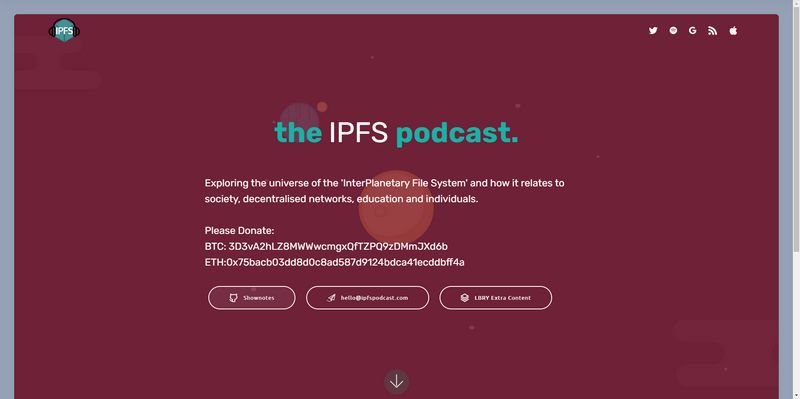
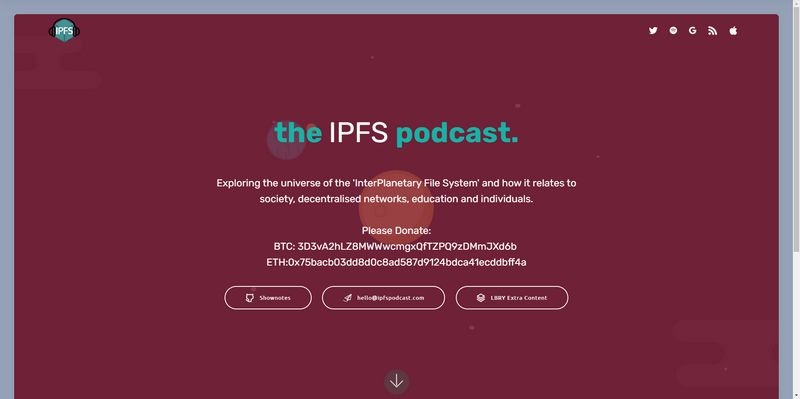
email update
email update

diff --git a/index.html b/index.html
@@ -74,7 +74,7 @@
             <div class="mbr-white col-md-10">
                 <h1 class="mbr-section-title align-center mbr-bold pb-3 mbr-fonts-style display-1">the <a href="http://ipfs.io" target="_blank">IPFS&nbsp;</a>podcast.</h1>
                 <p class="mbr-text align-center pb-3 mbr-fonts-style display-5"><br>Exploring the universe of the 'InterPlanetary File System' and how it relates to society, decentralised networks, education and individuals.<br><br>Please Donate:<br>BTC: <a href="https://live.blockcypher.com/btc/address/3D3vA2hLZ8MWWwcmgxQfTZPQ9zDMmJXd6b/" class="text-primary" target="_blank">3D3vA2hLZ8MWWwcmgxQfTZPQ9zDMmJXd6b&nbsp;</a><br>ETH:<a href="https://etherchain.org/account/75bacb03dd8d0c8ad587d9124bdca41ecddbff4a" class="text-primary" target="_blank">0x75bacb03dd8d0c8ad587d9124bdca41ecddbff4a</a></p>
-                <div class="mbr-section-btn align-center"><a class="btn btn-md btn-white-outline display-4" href="https://github.com/ipfspodcast/ipfspodcast.github.io/wiki" target="_blank"><span class="mobi-mbri mobi-mbri-github mbr-iconfont mbr-iconfont-btn"></span>Shownotes</a> <a class="btn btn-md btn-white-outline display-4" href="mailto:hello@ipfspodcast.com"><span class="icon54-v1-send-mail2 mbr-iconfont mbr-iconfont-btn"></span>hello@ipfspodcast.com</a> <a class="btn btn-md btn-white-outline display-4" href="https://odysee.com/@ipfspodcast:1" target="_blank"><span class="mobi-mbri mobi-mbri-layers mbr-iconfont mbr-iconfont-btn"></span>LBRY Extra Content</a></div>
+                <div class="mbr-section-btn align-center"><a class="btn btn-md btn-white-outline display-4" href="https://github.com/ipfspodcast/ipfspodcast.github.io/wiki" target="_blank"><span class="mobi-mbri mobi-mbri-github mbr-iconfont mbr-iconfont-btn"></span>Shownotes</a> <a class="btn btn-md btn-white-outline display-4" href="mailto:ipfspodcast@protonmail.com"><span class="icon54-v1-send-mail2 mbr-iconfont mbr-iconfont-btn"></span>ipfspodcast@protonmail.com</a> <a class="btn btn-md btn-white-outline display-4" href="https://odysee.com/@ipfspodcast:1" target="_blank"><span class="mobi-mbri mobi-mbri-layers mbr-iconfont mbr-iconfont-btn"></span>LBRY Extra Content</a></div>
             </div>
         </div>
     </div>
